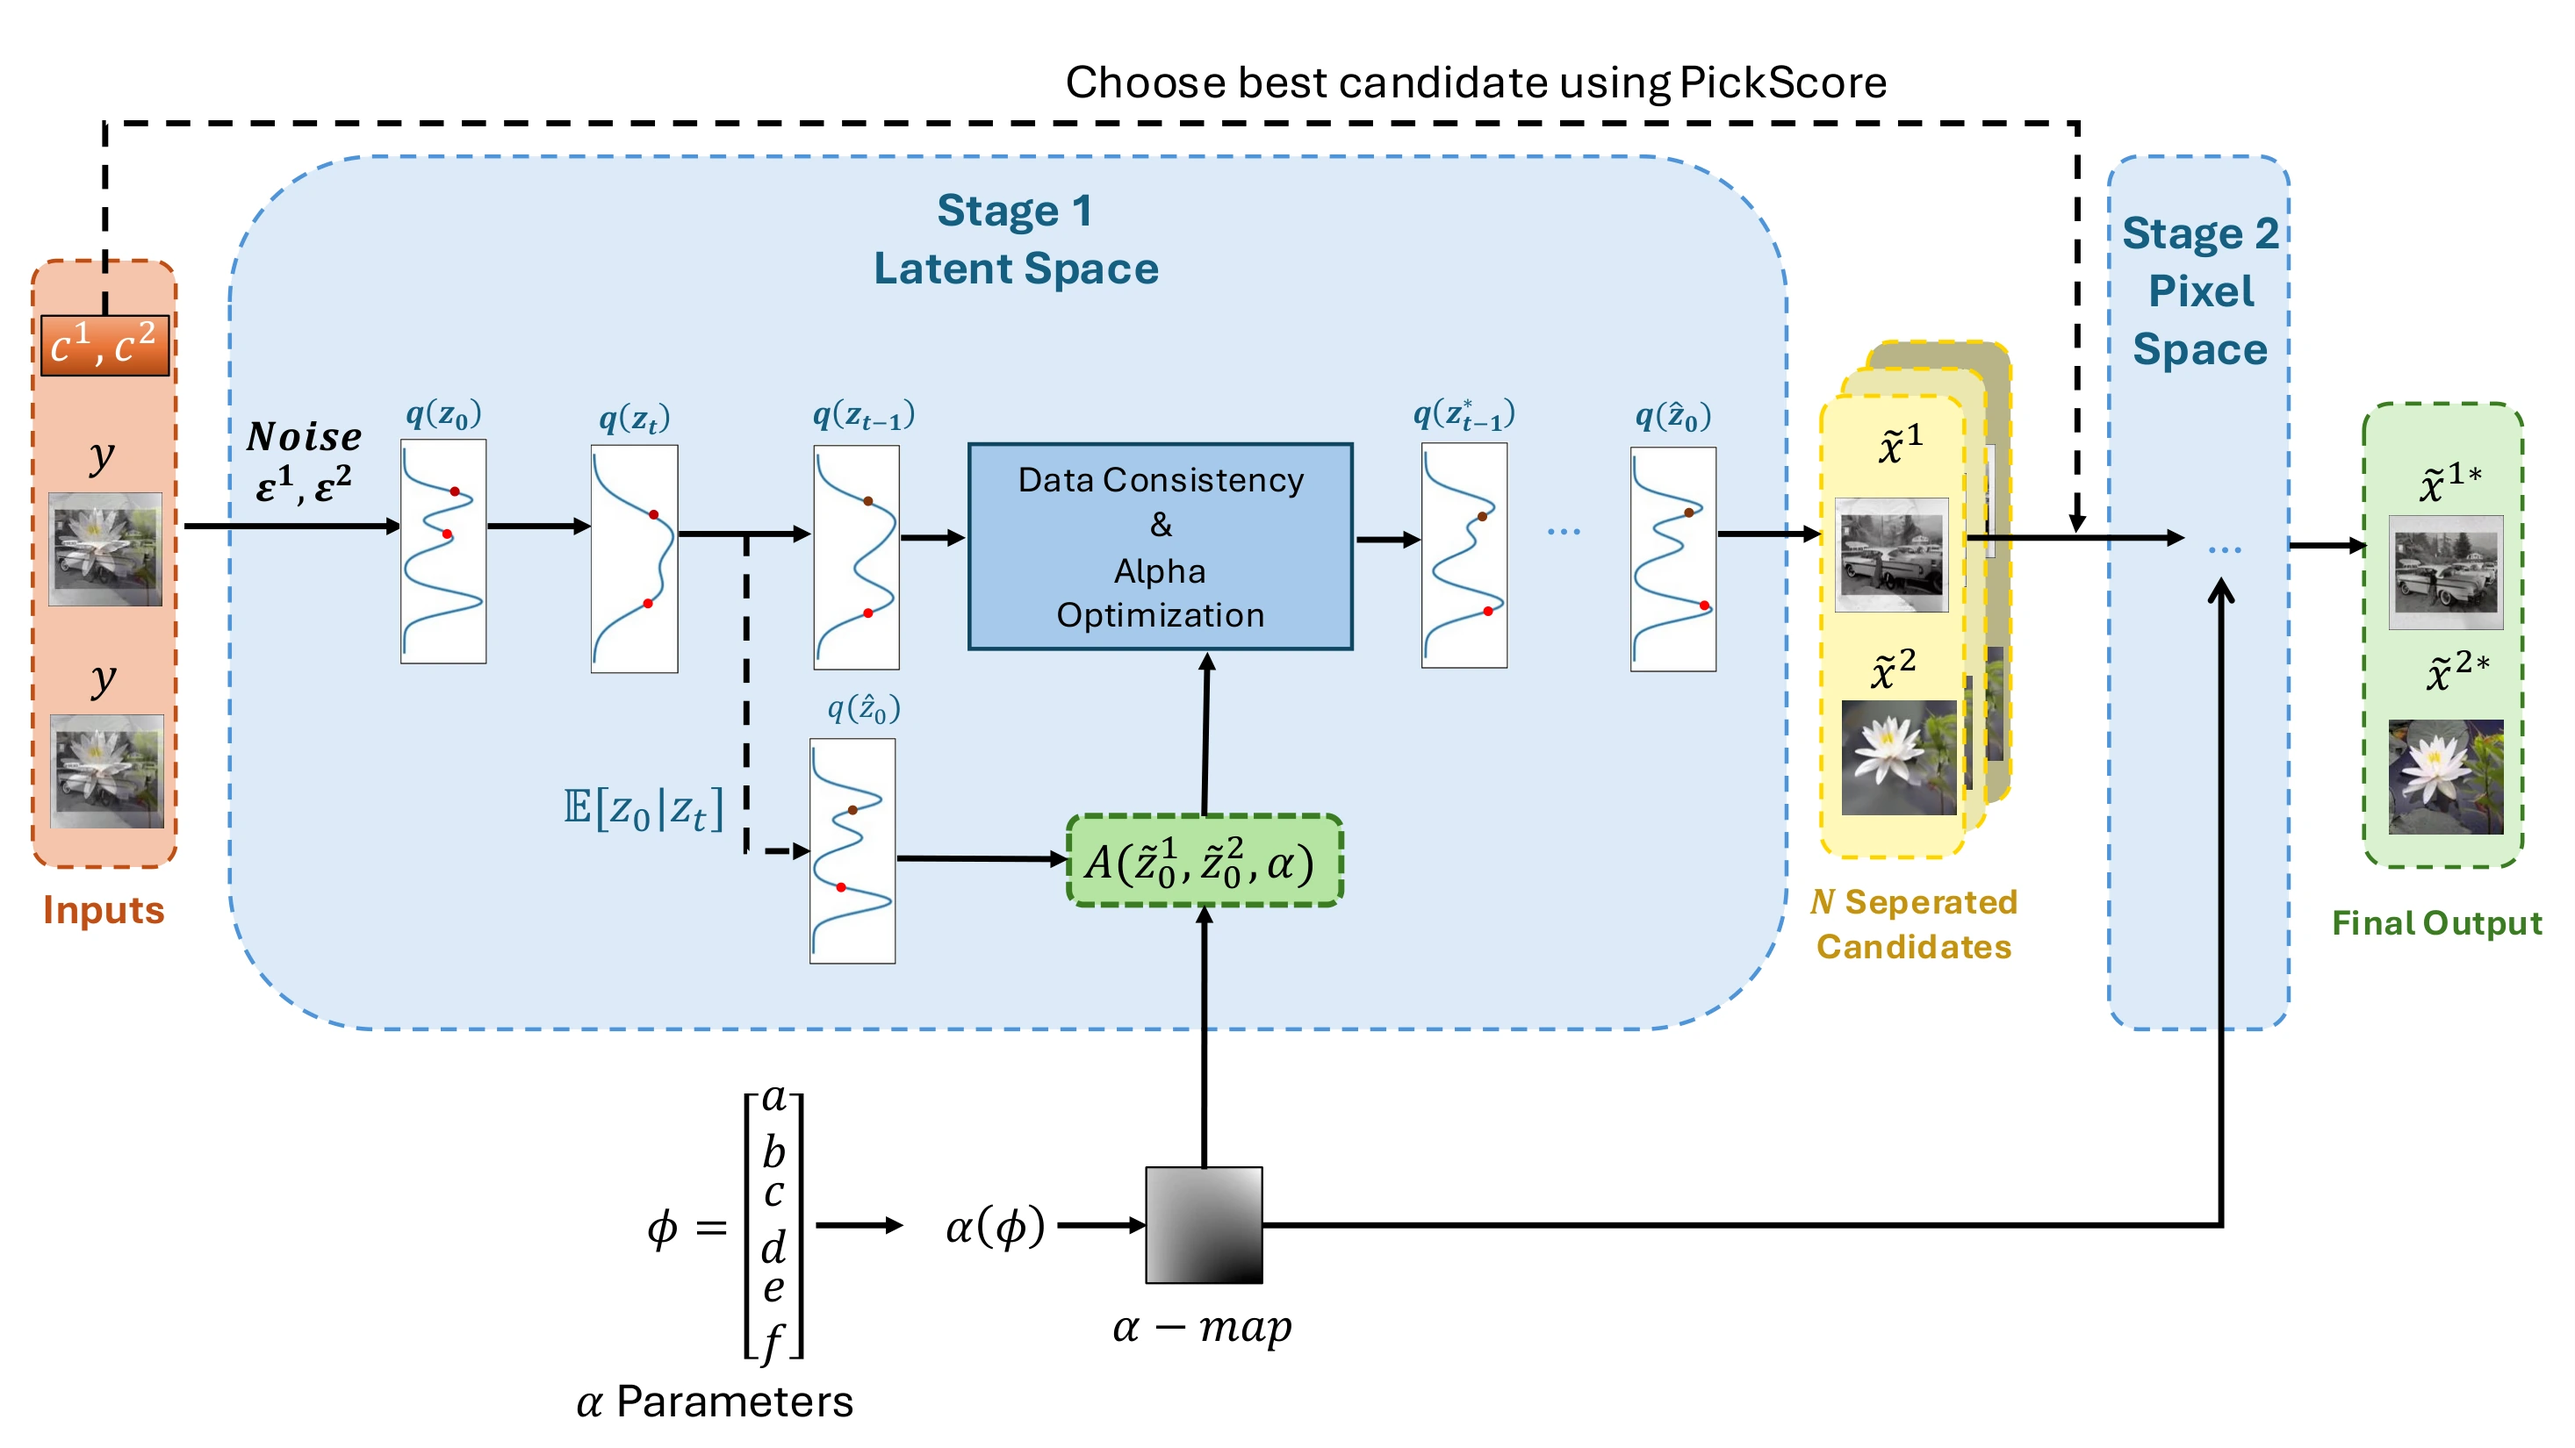
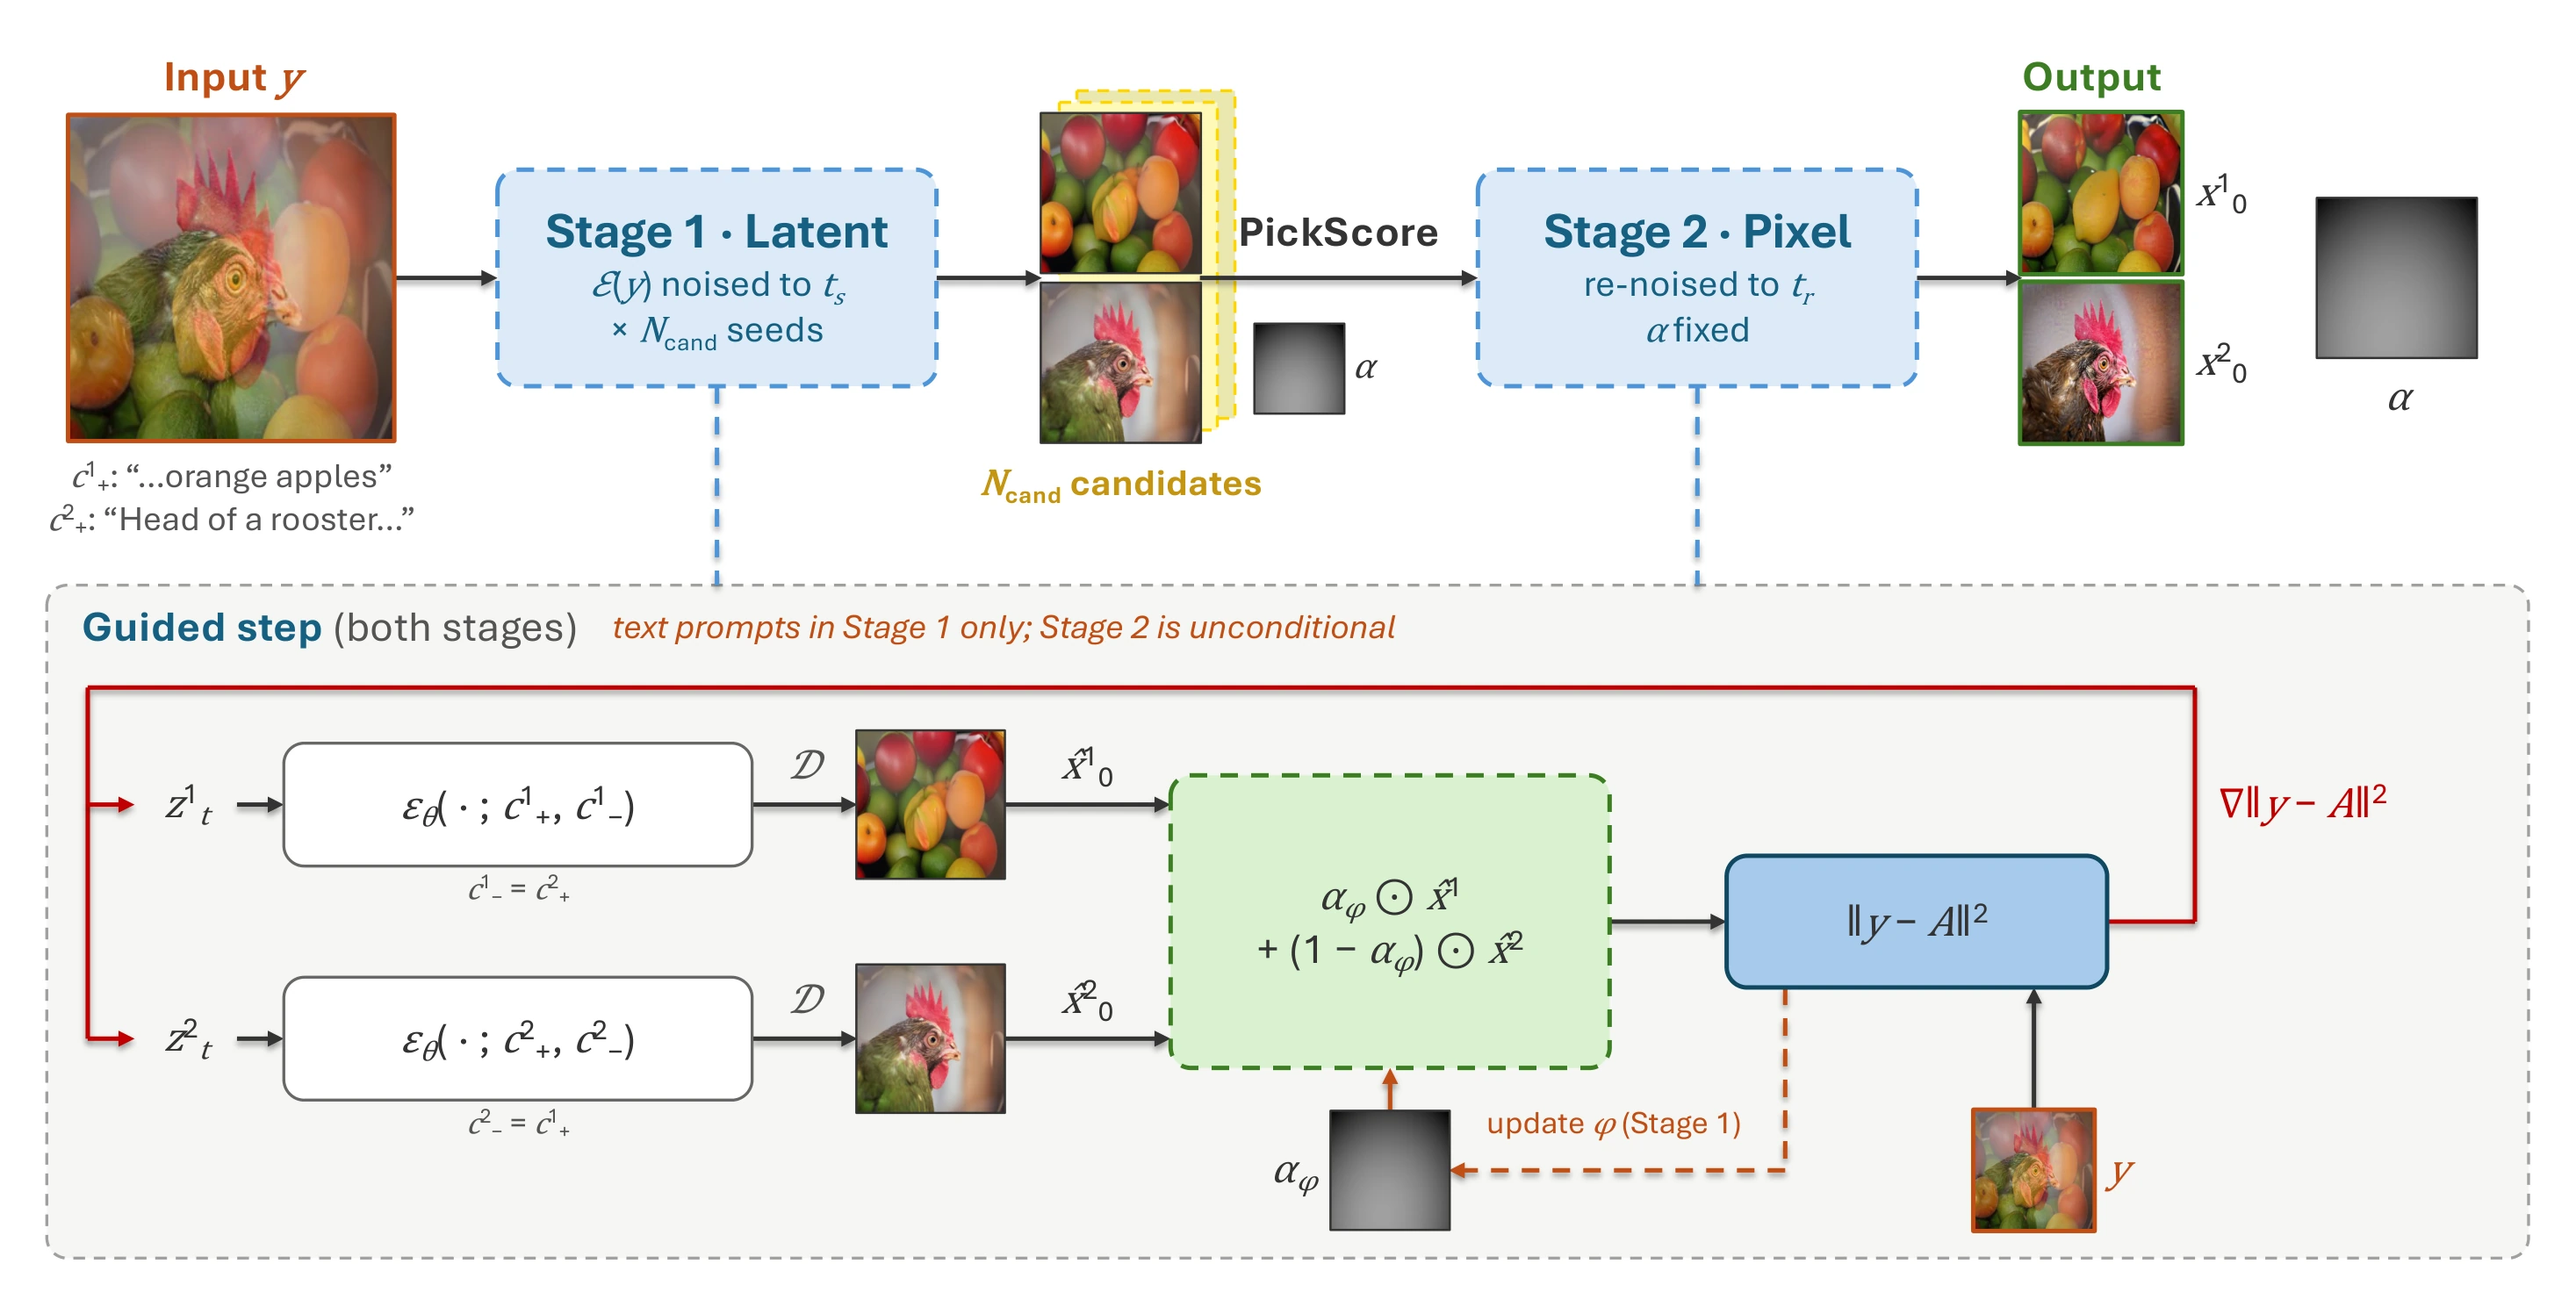
Update method figure and Stage 2 description to match the paper

diff --git a/README.md b/README.md
@@ -36,7 +36,7 @@ source trees.
 
 ## Method
 
-<img src="assets/method.webp" alt="Pipeline: Stage 1 text-guided latent diffusion produces N candidate decompositions, PickScore selects one, and Stage 2 refines it in pixel space." width="100%">
+<img src="assets/method.webp" alt="Top: Stage 1 text-guided latent diffusion from N seeds, PickScore selects one candidate, Stage 2 refines it in pixel space with alpha fixed. Bottom: the guided step shared by both stages." width="100%">
 
 1. Stage 1 uses Stable Diffusion v1.4 at 512 x 512 for text-guided semantic separation.
 2. Three stochastic candidates are generated with fixed per-pair seeds.
@@ -44,8 +44,9 @@ source trees.
 4. Stage 2 uses OpenAI's unconditional 256 x 256 ImageNet diffusion model for pixel-space refinement.
 5. PSNR, grayscale SSIM, and LPIPS are evaluated after resolving the two-source ordering by minimum total MSE.
 
-Both stages alternate data-consistency updates of the two samples with an update of the alpha
-coefficients every 5 steps. The canonical pipeline takes approximately 50.6--71.0 minutes per
+Both stages use the same guided step: denoise each source, re-blend with the alpha map, and
+update both samples from the data-consistency gradient. Stage 1 also updates the alpha
+coefficients every 5 steps; Stage 2 keeps alpha fixed at the Stage-1 estimate and uses no prompts. The canonical pipeline takes approximately 50.6--71.0 minutes per
 input on one NVIDIA RTX 3090, excluding selector overhead.
 
 ## Results
